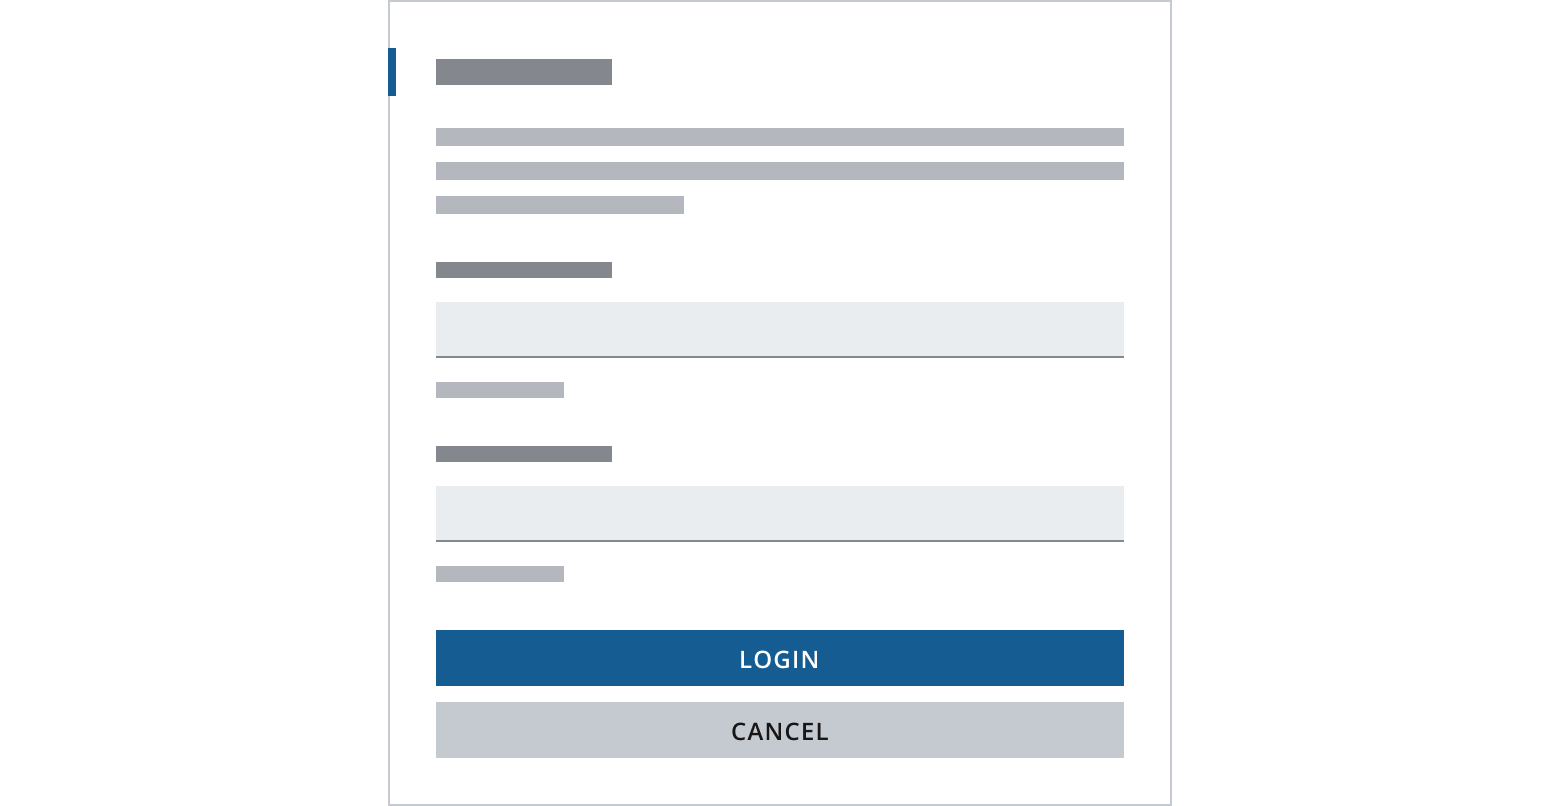
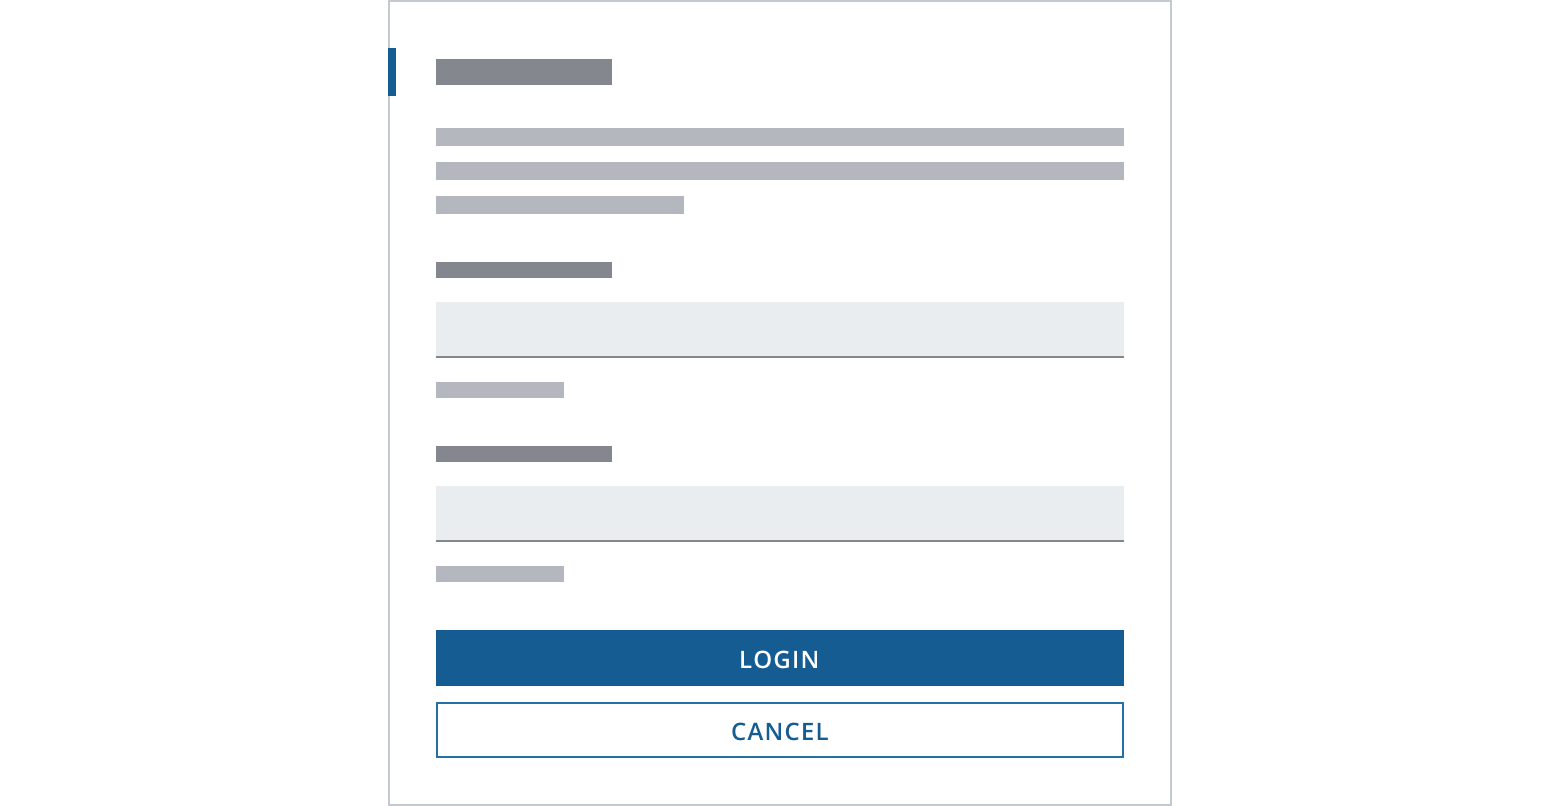
button bar pattern updates (#4404)

Changed region(s): [[0.2769, 0.8685, 0.7385, 0.9615]]

diff --git a/packages/core/stories/patterns/button-bar/button-bar.stories.tsx b/packages/core/stories/patterns/button-bar/button-bar.stories.tsx
@@ -39,7 +39,9 @@ export const ButtonBar = () => {
           </Button>
         </FlexItem>
         <FlexItem>
-          <Button style={{ width: "100%" }}>Cancel</Button>
+          <Button appearance="bordered" style={{ width: "100%" }}>
+            Cancel
+          </Button>
         </FlexItem>
       </StackLayout>
     </div>
@@ -55,7 +57,9 @@ export const WithSecondary = () => {
         </Button>
       </FlexItem>
       <FlexItem>
-        <Button style={{ width: "100%" }}>Cancel</Button>
+        <Button appearance="bordered" style={{ width: "100%" }}>
+          Cancel
+        </Button>
       </FlexItem>
     </StackLayout>
   );
@@ -99,7 +103,9 @@ export const DestructiveActions = () => {
         </Button>
       </FlexItem>
       <FlexItem>
-        <Button style={{ width: "100%" }}>Cancel</Button>
+        <Button appearance="bordered" style={{ width: "100%" }}>
+          Cancel
+        </Button>
       </FlexItem>
     </StackLayout>
   );
@@ -132,11 +138,13 @@ export const Responsive = () => {
     <StackLayout gap={1} direction={{ xs: "column", sm: "row" }}>
       <FlexItem>
         <Button sentiment="accented" style={{ width: "100%" }}>
-          CTA
+          Save
         </Button>
       </FlexItem>
       <FlexItem>
-        <Button style={{ width: "100%" }}>Primary</Button>
+        <Button appearance="bordered" style={{ width: "100%" }}>
+          Cancel
+        </Button>
       </FlexItem>
     </StackLayout>
   );
@@ -145,7 +153,14 @@ export const Responsive = () => {
     <StackLayout gap={1} direction={{ xs: "column", sm: "row" }}>
       <FlexItem>
         <Button appearance="transparent" style={{ width: "100%" }}>
-          Secondary
+          <ExportIcon />
+          Export
+        </Button>
+      </FlexItem>
+      <FlexItem>
+        <Button appearance="transparent" style={{ width: "100%" }}>
+          <ImportIcon />
+          Import
         </Button>
       </FlexItem>
     </StackLayout>
@@ -165,24 +180,26 @@ export const Responsive = () => {
 };
 
 export const ResponsiveReverse = () => {
-  const primary = (
+  const bordered = (
     <FlexItem>
-      <Button style={{ width: "100%" }}>Primary</Button>
-    </FlexItem>
-  );
-
-  const secondary = (
-    <FlexItem>
-      <Button appearance="transparent" style={{ width: "100%" }}>
-        Secondary
+      <Button appearance="bordered" style={{ width: "100%" }}>
+        Cancel
       </Button>
     </FlexItem>
   );
 
-  const cta = (
+  const transparent = (
+    <FlexItem>
+      <Button appearance="transparent" style={{ width: "100%" }}>
+        Delete
+      </Button>
+    </FlexItem>
+  );
+
+  const accented = (
     <FlexItem>
       <Button sentiment="accented" style={{ width: "100%" }}>
-        CTA
+        Save
       </Button>
     </FlexItem>
   );
@@ -190,20 +207,20 @@ export const ResponsiveReverse = () => {
   const direction: StackLayoutProps<ElementType>["direction"] =
     useResponsiveProp({ xs: "column", sm: "row" }, "row");
 
-  const startItem = <StackLayout gap={1}>{secondary}</StackLayout>;
+  const startItem = <StackLayout gap={1}>{transparent}</StackLayout>;
 
   const endItem = (
     <StackLayout direction={"row"} gap={1}>
-      {primary}
-      {cta}
+      {bordered}
+      {accented}
     </StackLayout>
   );
 
   const columnStack = (
     <StackLayout direction="column" gap={1} style={{ width: "100%" }}>
-      {cta}
-      {primary}
-      {secondary}
+      {accented}
+      {bordered}
+      {transparent}
     </StackLayout>
   );
 
@@ -260,7 +277,9 @@ export const SingleStepForm = () => {
           </Button>
         </FlexItem>
         <FlexItem>
-          <Button style={{ width: "100%" }}>Cancel</Button>
+          <Button appearance="bordered" style={{ width: "100%" }}>
+            Cancel
+          </Button>
         </FlexItem>
       </StackLayout>
     </StackLayout>
@@ -270,7 +289,9 @@ export const SingleStepForm = () => {
 export const MultiStepForm = () => {
   const previous = (
     <FlexItem>
-      <Button style={{ width: "100%" }}>Previous</Button>
+      <Button appearance="bordered" style={{ width: "100%" }}>
+        Previous
+      </Button>
     </FlexItem>
   );
 
@@ -340,13 +361,17 @@ export const DialogForm = () => {
         onClick={handleClose}
         style={{ width: "100%" }}
       >
-        Save
+        Save as draft
       </Button>
     </FlexItem>
   );
   const cancel = (
     <FlexItem>
-      <Button onClick={handleClose} style={{ width: "100%" }}>
+      <Button
+        appearance="bordered"
+        onClick={handleClose}
+        style={{ width: "100%" }}
+      >
         Cancel
       </Button>
     </FlexItem>
